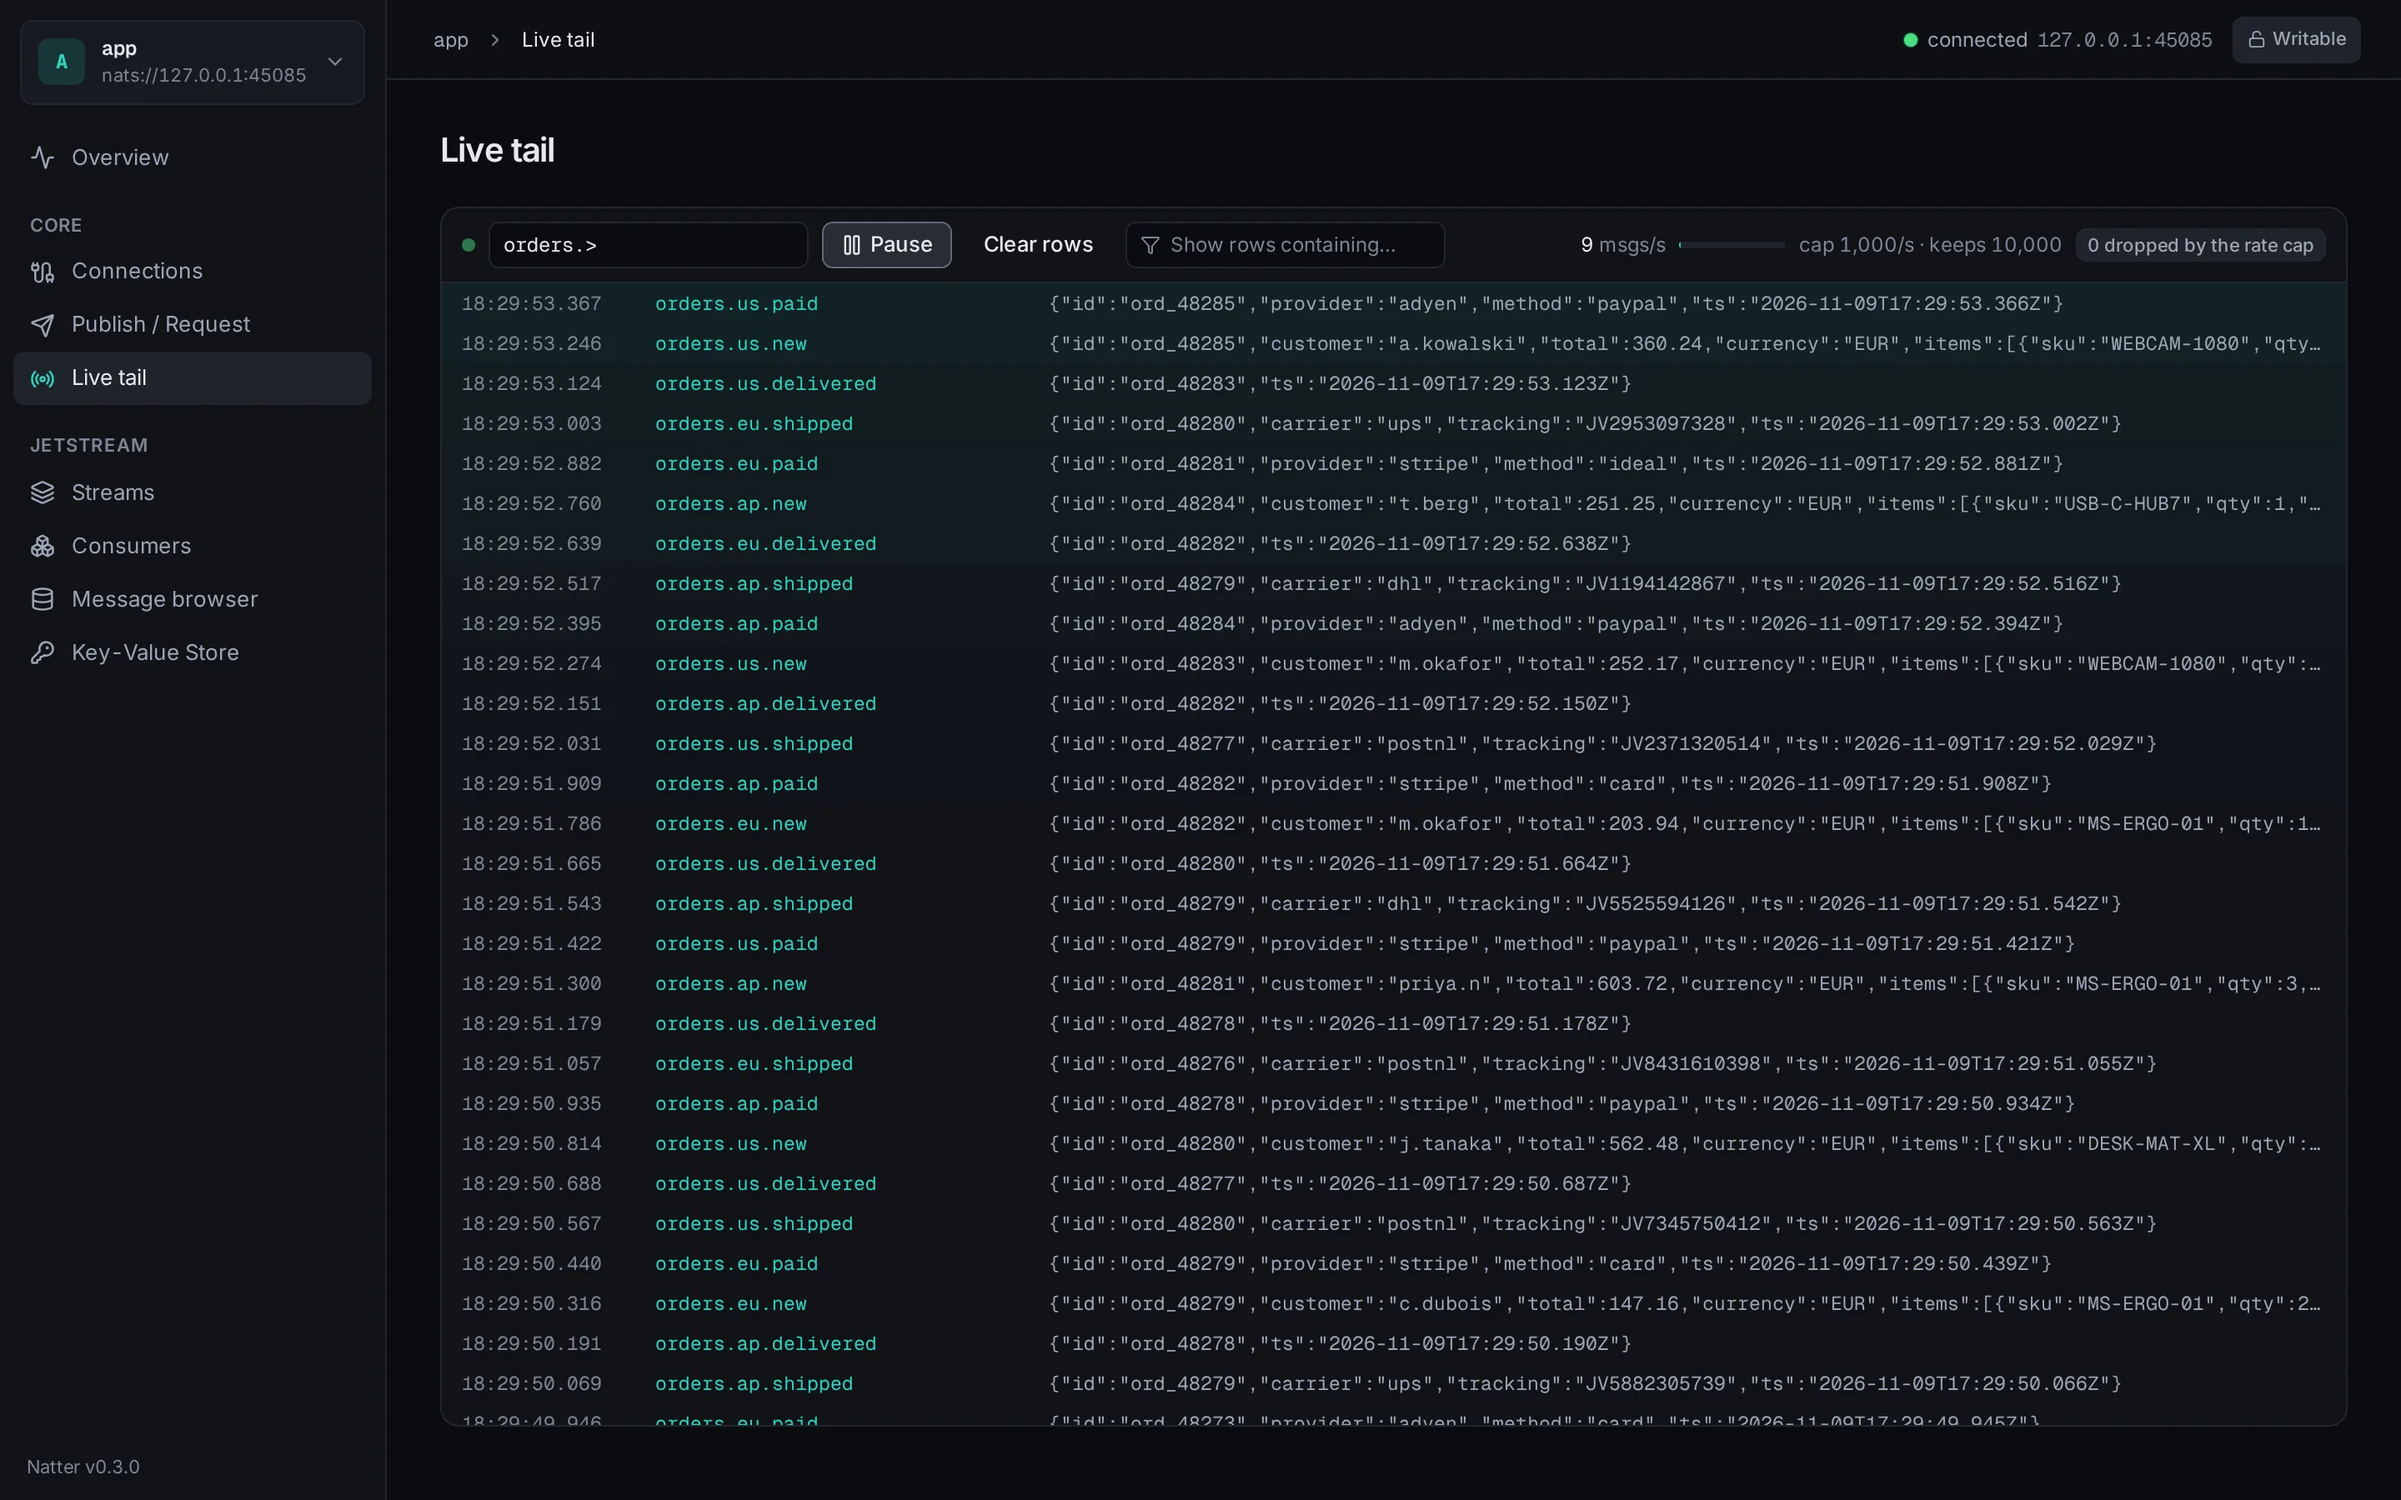
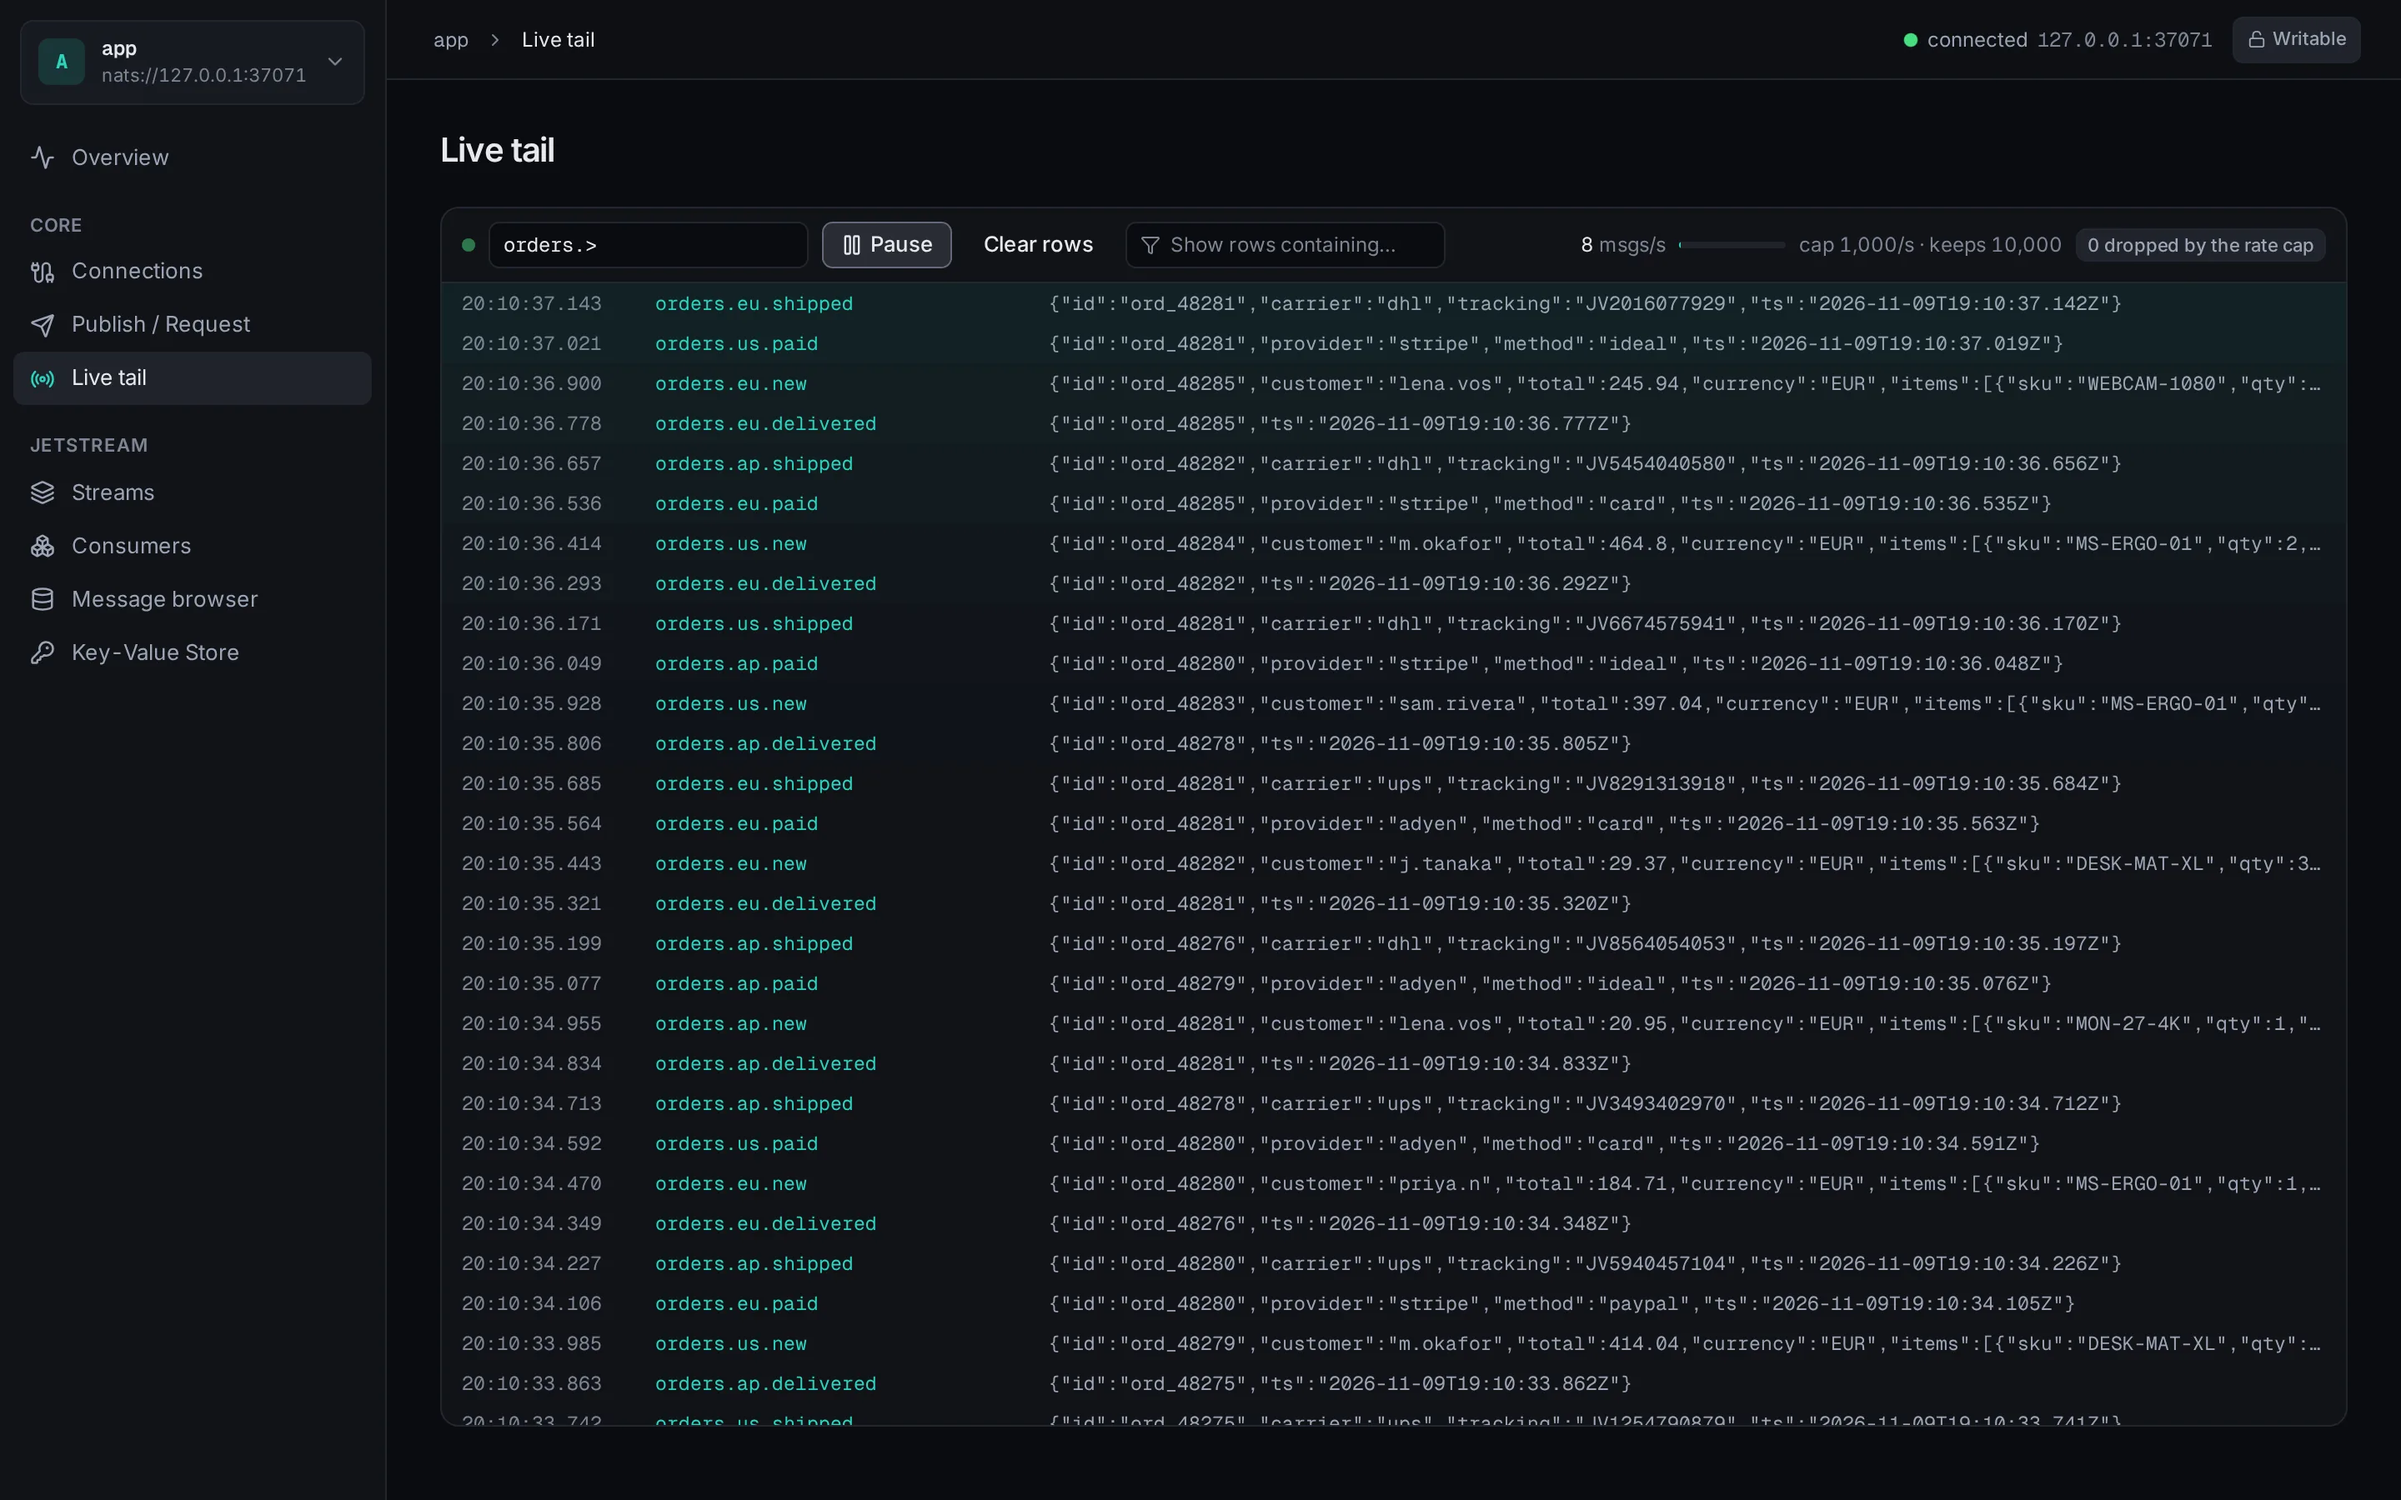
docs(site): leave the sidebar footer out of the screenshots (#35)
The footer showed the release version, so every screenshot went stale with each release. capture.mjs now blanks it and no longer reads the latest tag. All screenshots recaptured.

diff --git a/site/README.md b/site/README.md
@@ -26,7 +26,9 @@ python3 -m http.server -d site/dist 8099  # preview at http://127.0.0.1:8099
   them all; name some (`node site/capture.mjs tail publish`) to redo only
   those. It needs Go, ImageMagick and `npm ci` plus `npx playwright install
   chromium` in `web`. The overview graphs span 2 minutes, so the overview is
-  captured last, after 2 minutes of live traffic have filled them.
+  captured last, after 2 minutes of live traffic have filled them. The
+  sidebar footer (name and version) is left blank, so the screenshots don't
+  date with each release.
 
 ## Publish
 
